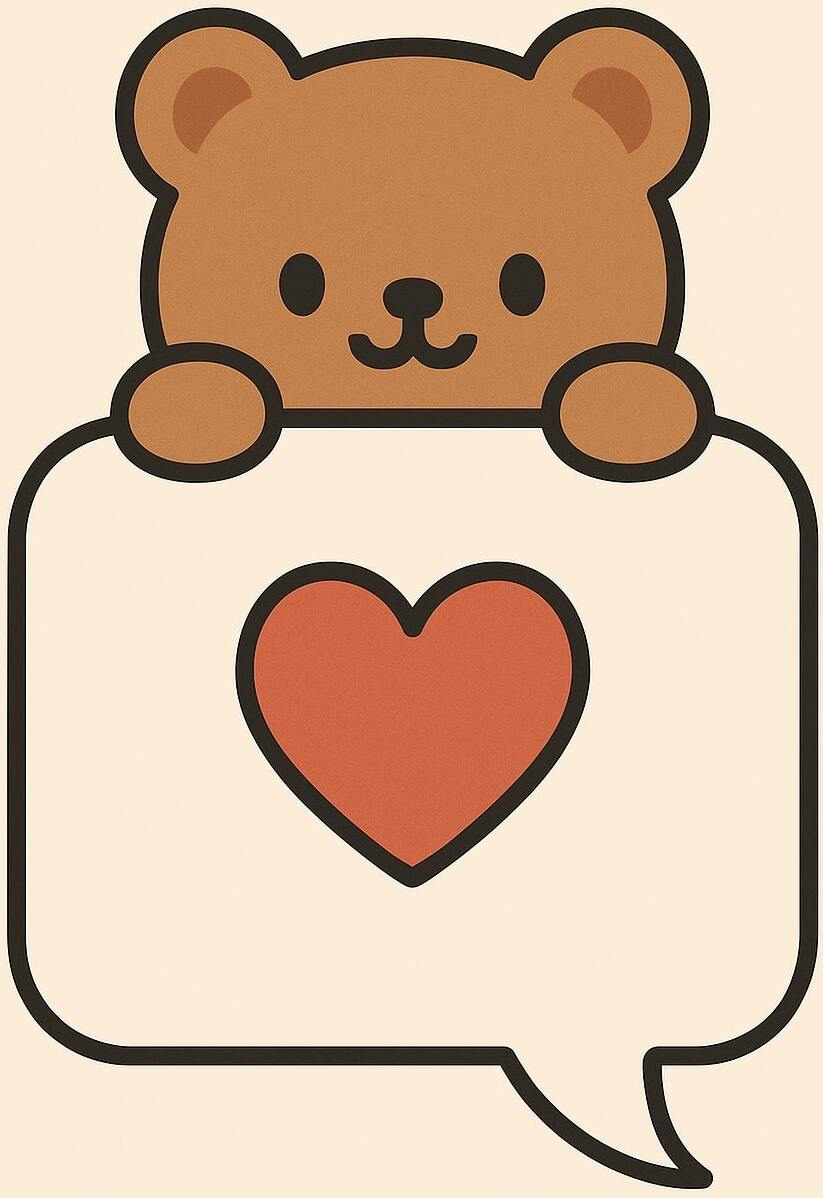
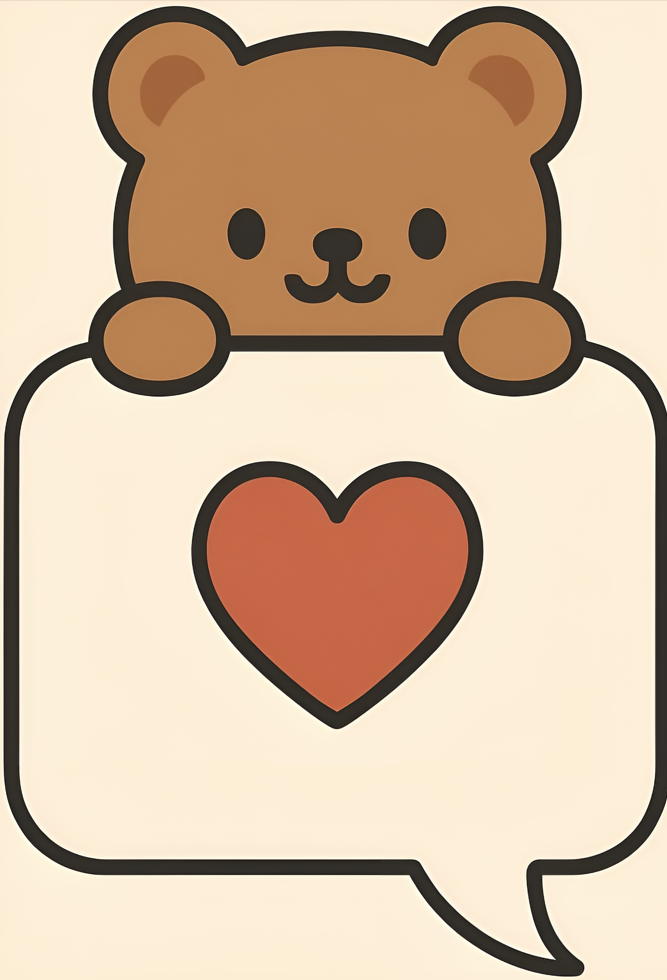
cc

diff --git a/assets/styles.css b/assets/styles.css
@@ -67,25 +67,48 @@ body {
   justify-content: center;
 }
 
-.office-card-image {
-  width: 100% !important;
-  height: 100% !important;
+.office-card {
+  width: 100%;
+  height: 100%;
   border-radius: 10px;
-  object-fit: contain !important;
-  object-position: center !important;
-  padding: 5px;
+  overflow: hidden;
+  transition: transform 0.3s ease;
+}
+
+.office-card:hover {
+  transform: translateY(-5px);
+}
+
+.office-card-image-container {
+  height: 150px;
+  overflow: hidden;
+  background-color: white;
+  padding: 0;
+  margin: 0;
+}
+
+.office-card-image {
+  width: 100%;
+  height: 100%;
+  object-fit: cover;
+  transition: transform 0.3s ease;
+  padding: 0;
+  margin: 0;
+}
+
+.office-card:hover .office-card-image {
+  transform: scale(1.05);
+}
+
+.office-card-text-container {
+  padding: 1rem;
   background-color: white;
 }
 
-.office-card {
-  width: 45%;
-  max-width: 300px;
-  height: auto;
-  border-radius: 10px;
-  margin: 20px 20px;
-  /* Increased horizontal margin for more space between cards in the same row */
-  padding: 10px;
-  box-shadow: 0 0 10px 0 rgba(0, 0, 0, 0.1);
+.office-card-text-container .title {
+  color: #5C3A21;
+  margin: 0;
+  font-weight: 600;
 }
 
 .office-card-name {

diff --git a/components/OfficeCard.js b/components/OfficeCard.js
@@ -12,13 +12,11 @@ app.component('office-card', {
     template:
         /* html */
         `
-        <div class="card" style="cursor: pointer; height: 100%; box-shadow: 0 2px 3px rgba(0,0,0,0.1);">
-            <div class="card-image" style="height: 150px; overflow: hidden;">
-                <figure class="image is-3by2" style="height: 100%;">
-                    <img :src="image" :alt="name" class="office-card-image">
-                </figure>
+        <div class="card office-card" style="cursor: pointer; height: 100%; box-shadow: 0 2px 3px rgba(0,0,0,0.1);">
+            <div class="office-card-image-container">
+                <img :src="image" :alt="name" class="office-card-image">
             </div>
-            <div class="card-content p-3">
+            <div class="office-card-text-container">
                 <div class="content has-text-centered">
                     <h2 class="title is-5">{{ name }}</h2>
                 </div>
